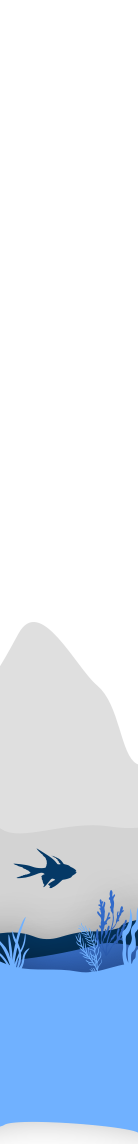
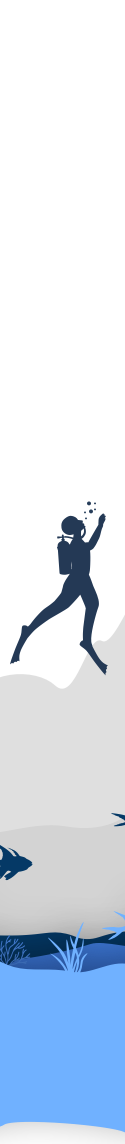
feat:更换背景图片，调整内容位置

Changed region(s): [[0.0, 0.4283, 1.0, 0.6731], [0.0, 0.7343, 1.0, 0.8566], [0.912, 0.7037, 1.0, 0.7343]]

diff --git a/js/app/main.js b/js/app/main.js
@@ -34,11 +34,10 @@ var main = Bone.extend({}, Bone.Events, {
         var _self = this;
         gesture.on('move', function (obj) {
             if (!_self.lock) {
-                _self.stage.camera.z<105?_self.stage.camera.z+=15:_self.stage.camera.z =_self.stage.camera.z;
-                _self.stage.update();
-        
                 _self.drag.lon = (_self.drag.lon - obj.ax * 0.2) % 360;
                 _self.drag.lat = Math.max(-90, Math.min(90, _self.drag.lat + obj.ay * 0.2));
+                _self.stage.camera.z<105?_self.stage.camera.z+=15:_self.stage.camera.z =_self.stage.camera.z;
+                _self.stage.update();
             }
         });
         gesture.on('end',function(){
@@ -91,13 +90,12 @@ var main = Bone.extend({}, Bone.Events, {
         if (_lon - this.root.rotationY < -180) this.root.rotationY -= 360;
 
         this.root.rotationY += (_lon - this.root.rotationY) * 1;
-       
-        if(this.root.rotationX + (_lat -this.root.rotationX)*.15<-5){
-            this.root.rotationX = this.root.rotationX;
-        }else{
-            this.root.rotationX += (_lat - this.root.rotationX) * 0.15;
-        }
-    
+        this.root.rotationX += (_lat - this.root.rotationX) * 0.15;
+        // if(this.root.rotationX + (_lat -this.root.rotationX)*.15<-5){
+        //     this.root.rotationX = this.root.rotationX;
+        // }else{
+        //     this.root.rotationX += (_lat - this.root.rotationX) * 0.15;
+        // }
         this.root.updateT();
     },
 

diff --git a/js/app/pano.js b/js/app/pano.js
@@ -19,8 +19,6 @@ var pano = Bone.extend({}, Bone.Events, {
     addBg:function(){
         var panoRect = {w: 2898, h: 1144};
         var bgData = [
-           
-            {url: 'bg/p1.png'},
             {url: 'bg/p2.png'},
             {url: 'bg/p3.png'},
             {url: 'bg/p4.png'},
@@ -41,7 +39,7 @@ var pano = Bone.extend({}, Bone.Events, {
             {url: 'bg/p19.png'},
             {url: 'bg/p20.png'},
             {url: 'bg/p21.png'},
-           
+            {url: 'bg/p1.png'},
         ];
         var pano = function(imgs, rect) {
             var _len = imgs.length;
@@ -179,7 +177,7 @@ var pano = Bone.extend({}, Bone.Events, {
         }
     },
     addCus:function(){
-        var panoRect = {w: 2627, h: 414};
+        var panoRect = {w: 2627, h: 690};
         var bgData = [
             {
                 url:'./static/custom/cus1.png'
@@ -328,7 +326,7 @@ var pano = Bone.extend({}, Bone.Events, {
         this.stage.children[1].children[3].addChild(btn);
     },
     addMethods:function(){
-        var panoRect = {w: 2627, h: 512};
+        var panoRect = {w: 2627, h: 690};
         var bgData = [
             {
                 url:'./static/method/method1.png'
